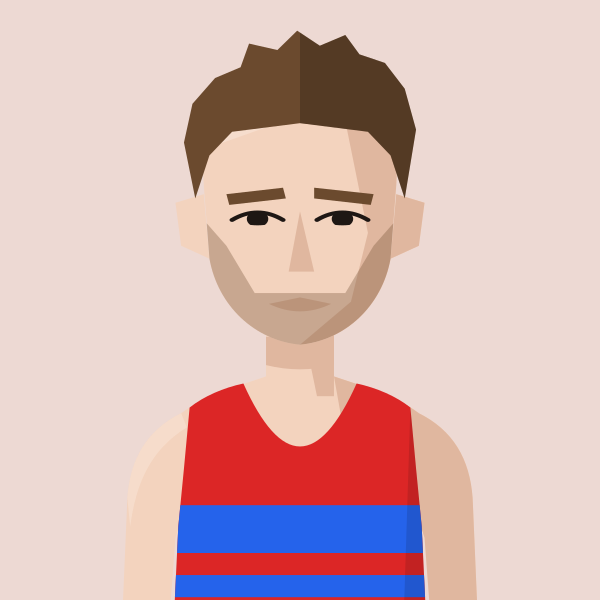
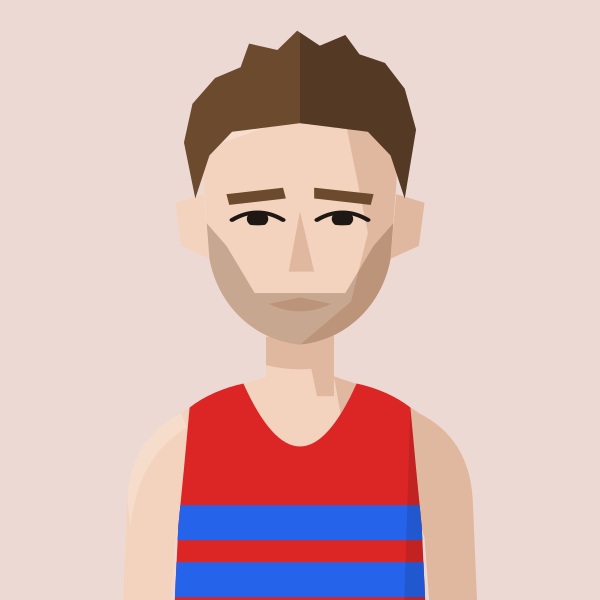
Dulwich kit: both blue bands the same width
Claude-Session: https://claude.ai/code/session_01MgmDWhFqnSSnP4iBLKXUZC

Changed region(s): [[0.27, 0.9, 0.72, 0.96]]

diff --git a/files/index.html b/files/index.html
@@ -521,7 +521,7 @@ const ClubVest=({club,size=20})=>{
     case'HHH':return<><path d={p} fill="#dc2626"/><clipPath id={id}><path d={p}/></clipPath><g clipPath={`url(#${id})`}><rect x="0" y="0" width="20" height="3" fill="#1a1a1a"/><rect x="0" y="6" width="20" height="3" fill="#1a1a1a"/><rect x="0" y="12" width="20" height="3" fill="#1a1a1a"/><rect x="0" y="18" width="20" height="3" fill="#1a1a1a"/></g></>;
     case'G&G':return<path d={p} fill="#228b22"/>;
     case'SLH':return<><path d={p} fill="#fff"/><clipPath id={id}><path d={p}/></clipPath><g clipPath={`url(#${id})`}><rect x="13" y="0" width="4" height="20" fill="#800020"/></g></>;
-    case'DUL':return<><path d={p} fill="#dc2626"/><clipPath id={id}><path d={p}/></clipPath><g clipPath={`url(#${id})`}><rect x="0" y="7" width="20" height="2.6" fill="#2563eb"/><rect x="0" y="10.8" width="20" height="1.2" fill="#2563eb"/></g></>;
+    case'DUL':return<><path d={p} fill="#dc2626"/><clipPath id={id}><path d={p}/></clipPath><g clipPath={`url(#${id})`}><rect x="0" y="7" width="20" height="1.9" fill="#2563eb"/><rect x="0" y="10.1" width="20" height="1.9" fill="#2563eb"/></g></>;
     case'HOL':return<><path d={p} fill="#1e3a8a"/><clipPath id={id}><path d={p}/></clipPath><g clipPath={`url(#${id})`}><rect x="0" y="8" width="20" height="3" fill="#fff"/></g></>;
     case'RAN':return<><path d={p} fill="#1e3a8a"/><clipPath id={id}><path d={p}/></clipPath><g clipPath={`url(#${id})`}><rect x="0" y="8" width="20" height="3" fill="#f4c430"/></g></>;
     case'C/C':return<><path d={p} fill="#fff"/><clipPath id={id}><path d={p}/></clipPath><g clipPath={`url(#${id})`}><rect x="0" y="10" width="20" height="10" fill="#1e3a8a"/><rect x="0" y="9" width="20" height="2" fill="#228b22"/></g></>;
@@ -588,7 +588,7 @@ const getClubVestSvg=(club)=>{
     'HHH':`<path d="${p}" fill="#dc2626"/><defs><clipPath id="${id}"><path d="${p}"/></clipPath></defs><g clip-path="url(#${id})"><rect x="0" y="0" width="20" height="3" fill="#1a1a1a"/><rect x="0" y="6" width="20" height="3" fill="#1a1a1a"/><rect x="0" y="12" width="20" height="3" fill="#1a1a1a"/><rect x="0" y="18" width="20" height="3" fill="#1a1a1a"/></g>`,
     'G&G':`<path d="${p}" fill="#228b22"/>`,
     'SLH':`<path d="${p}" fill="#fff"/><defs><clipPath id="${id}"><path d="${p}"/></clipPath></defs><g clip-path="url(#${id})"><rect x="13" y="0" width="4" height="20" fill="#800020"/></g>`,
-    'DUL':`<path d="${p}" fill="#dc2626"/><defs><clipPath id="${id}"><path d="${p}"/></clipPath></defs><g clip-path="url(#${id})"><rect x="0" y="7" width="20" height="2.6" fill="#2563eb"/><rect x="0" y="10.8" width="20" height="1.2" fill="#2563eb"/></g>`,
+    'DUL':`<path d="${p}" fill="#dc2626"/><defs><clipPath id="${id}"><path d="${p}"/></clipPath></defs><g clip-path="url(#${id})"><rect x="0" y="7" width="20" height="1.9" fill="#2563eb"/><rect x="0" y="10.1" width="20" height="1.9" fill="#2563eb"/></g>`,
     'HOL':`<path d="${p}" fill="#1e3a8a"/><defs><clipPath id="${id}"><path d="${p}"/></clipPath></defs><g clip-path="url(#${id})"><rect x="0" y="8" width="20" height="3" fill="#fff"/></g>`,
     'RAN':`<path d="${p}" fill="#1e3a8a"/><defs><clipPath id="${id}"><path d="${p}"/></clipPath></defs><g clip-path="url(#${id})"><rect x="0" y="8" width="20" height="3" fill="#f4c430"/></g>`,
     'C/C':`<path d="${p}" fill="#fff"/><defs><clipPath id="${id}"><path d="${p}"/></clipPath></defs><g clip-path="url(#${id})"><rect x="0" y="10" width="20" height="10" fill="#1e3a8a"/><rect x="0" y="9" width="20" height="2" fill="#228b22"/></g>`,

diff --git a/tools/gen_portraits.py b/tools/gen_portraits.py
@@ -16,7 +16,7 @@ KITS = {
     "HHH": ("#dc2626", "".join(f'<rect x="0" y="{y}" width="20" height="3" fill="#1a1a1a"/>' for y in (0, 6, 12, 18)), "#EDD9D3"),
     "G&G": ("#228b22", "", "#D6E6D2"),
     "KEN": ("#2a4d7a", '<path d="M13 5 L15 5.5 L15 7.5 C15 8.5 14 9 13 9.5 C12 9 11 8.5 11 7.5 L11 5.5 Z" fill="#dc2626"/>', "#D3DCE6"),
-    "DUL": ("#dc2626", '<rect x="0" y="7" width="20" height="2.6" fill="#2563eb"/><rect x="0" y="10.8" width="20" height="1.2" fill="#2563eb"/>', "#EDD9D3"),
+    "DUL": ("#dc2626", '<rect x="0" y="7" width="20" height="1.9" fill="#2563eb"/><rect x="0" y="10.1" width="20" height="1.9" fill="#2563eb"/>', "#EDD9D3"),
     "C/C": ("#ffffff", '<rect x="0" y="10" width="20" height="10" fill="#1e3a8a"/><rect x="0" y="9" width="20" height="2" fill="#228b22"/>', "#D6DEE6"),
     "RAN": ("#1e3a8a", '<rect x="0" y="8" width="20" height="3" fill="#f4c430"/>', "#D3DCE8"),
     "STR": ("#f4c430", '<text x="10" y="13" text-anchor="middle" font-size="9" font-weight="bold" font-family="Helvetica, Arial, sans-serif" fill="#1a1a1a">S</text>', "#F1E6C6"),
